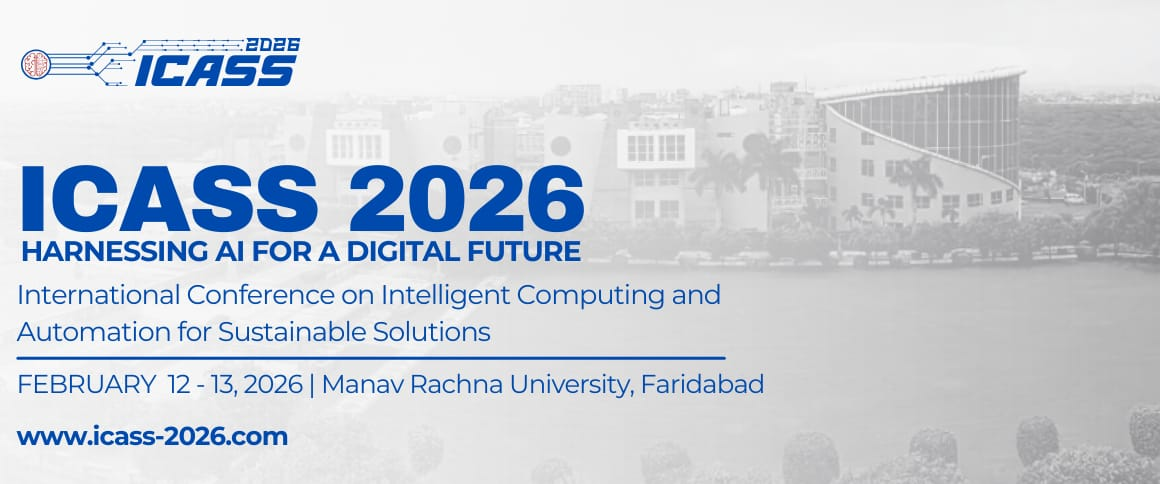
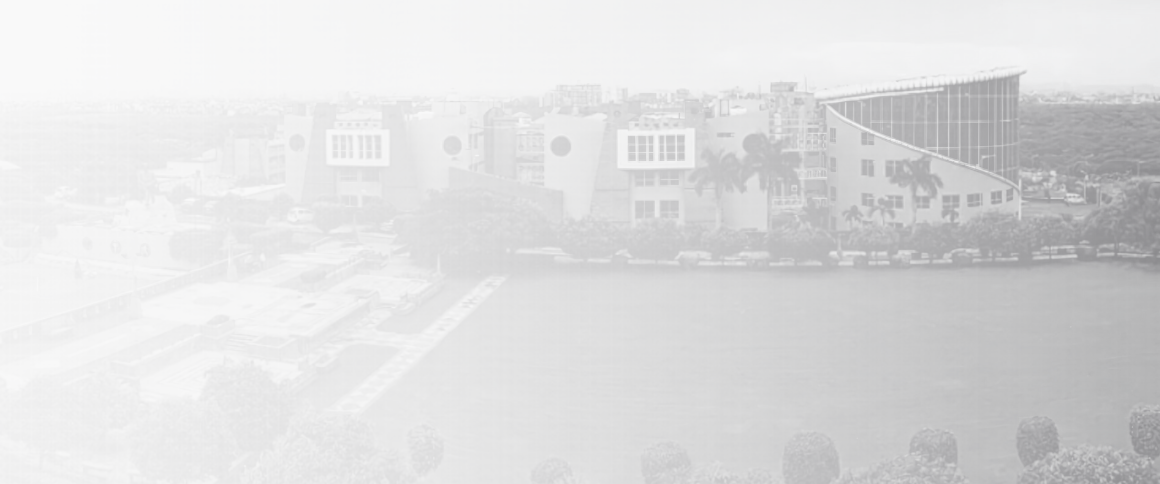
adding new features

diff --git a/src/pages/Home.jsx b/src/pages/Home.jsx
@@ -1,7 +1,8 @@
 import React, { useState } from "react";
 import { assets } from "../assets/assets";
 import { NavLink } from "react-router-dom";
-import {useNavigate} from "react-router-dom"
+import { useNavigate } from "react-router-dom";
+import "./Home.css";
 
 const Home = () => {
   const [openTrackOne, setOpenTrackOne] = useState(false);
@@ -34,19 +35,15 @@ const Home = () => {
   };
 
   const handlClickk = () => {
-  Navigate("/contact") ;
-  }
+    Navigate("/contact");
+  };
 
   return (
     <div className="w-full min-h-screen bg-gray-100 flex flex-col items-center justify-center">
       {/* Full-width Image */}
-
-      <img
-        src={assets.mru_poster}
-        alt="Home Background"
-        className="w-[60rem] h-auto"
-      />
-
+      <div className="imagetext">
+        
+      </div>
       {/* Scrolling Text */}
       <div className="bg-red-600 text-white w-full">
         <marquee
@@ -424,9 +421,15 @@ const Home = () => {
           </p>
         </div>
         <div className="mt-5">
-          <h1 className="text-blue-700 text-2xl md:text-3xl font-bold">Publication Opportunity</h1>
+          <h1 className="text-blue-700 text-2xl md:text-3xl font-bold">
+            Publication Opportunity
+          </h1>
           <hr className="bg-blue-700 border h-1 w-full my-2" />
-          <p className="text-justify">Articles will be published in proceedings of IEEE Xplore, extended version of the selected articles will be published in various SCOPUS indexed journals.(With additional cost</p>
+          <p className="text-justify">
+            Articles will be published in proceedings of IEEE Xplore, extended
+            version of the selected articles will be published in various SCOPUS
+            indexed journals.(With additional cost
+          </p>
         </div>
         <div className="mt-5">
           <h3 className="text-blue-700 text-2xl md:text-3xl font-bold">
@@ -434,21 +437,19 @@ const Home = () => {
           </h3>
           <hr className="bg-blue-700 border h-1 w-full my-2" />
           <div className="grid grid-cols-2 sm:grid-cols-3 md:grid-cols-4 gap-4">
-            
             <div className=" flex items-center justify-center text-center">
-               <img
-              className="w-[15rem] h-auto"
-              src={assets.sponsor_logo_2}
-              alt=""
-            />
+              <img
+                className="w-[15rem] h-auto"
+                src={assets.sponsor_logo_2}
+                alt=""
+              />
             </div>
-           
+
             <img
               className="w-[15rem] h-[15rem] items-center"
               src={assets.sponsor_logo_3}
               alt=""
             />
-            
           </div>
         </div>
         <div className="mt-5">
@@ -456,17 +457,10 @@ const Home = () => {
             Knowledge Partners
           </h3>
           <hr className="bg-blue-700 border h-1 w-full my-2" />
-          <div className="grid grid-cols-2 sm:grid-cols-3 md:grid-cols-4 gap-4">
-            
-            
-            
-          </div>
+          <div className="grid grid-cols-2 sm:grid-cols-3 md:grid-cols-4 gap-4"></div>
         </div>
       </div>
-      <button> Contact-Us </button>
     </div>
-
-    
   );
 };
 

diff --git a/src/pages/Guideline.jsx b/src/pages/Guideline.jsx
@@ -49,23 +49,22 @@ const Guideline = () => {
               1000 per page (Indian authors) or $50 per page (International
               authors).
             </li>
+
             <li>
-              Formatting: Double-column layout, single-spaced, using 10pt Times
-              New Roman font.
+              Use the IEEE template provided via the link below for paper
+              formatting.
             </li>
-            <li>
-              Margins: Top: 1" (25 mm) on the title page; 0.75" (19 mm)
-              elsewhere. Left, Right, and Bottom margins: 0.75" (19 mm).
-            </li>
-            <li>
-              File Format: PDF, with a maximum size of 5MB. All fonts must be
-              embedded.
-            </li>
-            <li>No page numbering should be included in the manuscript.</li>
-            <li>
-              Use the IEEE MS Word template provided via the link above for
-              proper formatting.
-            </li>
+            <ul className="ml-5">
+              <li>MS Word Template</li>
+              <li className="ml-5">A4</li>
+              <li>LaTeX Template</li>
+              <li className="ml-5">
+                LaTeX Template Instructions [Be sure to use the template's
+                conference mode.]
+              </li>
+              <li className="ml-5">Template</li>
+              <li className="ml-5">LaTeX Bibliography Files</li>
+            </ul>
           </ul>
         </div>
       </div>

diff --git a/src/pages/Contact.jsx b/src/pages/Contact.jsx
@@ -4,9 +4,9 @@ import emailjs from "@emailjs/browser";
 const Contact = () => {
   
   return (
-    <div className="flex justify-center text-3xl items-center min-h-screen bg-gray-100">
+    <div className="flex justify-center text-2xl items-center min-h-screen bg-gray-100">
       <div className="bg-white shadow-lg rounded-lg p-6">
-        <h2 className="text-3xl font-bold text-blue-700  mb-4">Contact Information</h2>
+        <h2 className="text-2xl font-bold text-blue-700  mb-4">Contact Information</h2>
         <table className="table-auto border-collapse border border-gray-300 w-full">
           <tbody>
             <tr>
@@ -18,7 +18,7 @@ const Contact = () => {
               <td className="border border-gray-900 px-4 py-2">icass2026@mru.edu.in</td>
             </tr>
             <tr>
-              <td className="border border-gray-900 px-4 py-2">For Paper related Enquiries</td>
+              <td className="border border-gray-900 px-4 py-2">For Paper Submission Enquiries</td>
               <td className="border border-gray-900 px-4 py-2">icass2026@mru.edu.in</td>
             </tr>
           </tbody>

diff --git a/src/pages/Registration.jsx b/src/pages/Registration.jsx
@@ -45,10 +45,10 @@ const Registration = () => {
                     Type
                   </th>
                   <th className="px-4 py-2 text-center border border-gray-700">
-                    @Rs
+                    Indian Author (Rs)
                   </th>
                   <th className="px-4 py-2 text-center border border-gray-700">
-                    @$
+                    International Author ($)
                   </th>
                 </tr>
               </thead>
@@ -114,8 +114,8 @@ const Registration = () => {
 
           <div className="pt-6 text-red-600 text-justify">
             <p className="text-xl">
-              * Extra page charge of ₹1000/- INR per page Indian author and $50
-              per page International author will be chargeable to the author's
+              * Extra page charge of ₹1000/- INR per page (Indian author) and $50
+              per page (International author) will be chargeable to the author's
               during registration process.
             </p>
           </div>

diff --git a/src/pages/Home.css b/src/pages/Home.css
@@ -1,0 +1,7 @@
+.imagetext {
+    background-image: url("../assets/mru_poster.png");
+    background-size: cover;
+    background-position: center;
+    height: 40rem;
+    width: 100%;
+}
